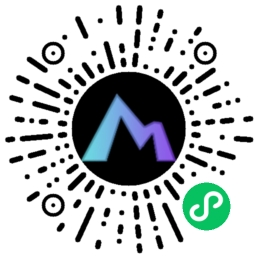
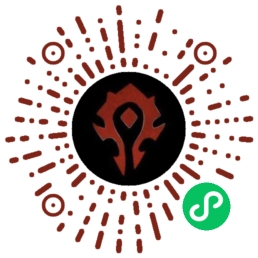
1:更换二维码 2:注释公会网址部分

Changed region(s): [[0.0, 0.0, 0.9922, 0.9922], [0.2481, 0.2481, 0.2791, 0.2791]]

diff --git a/client/mirai-mp-main/pages/my/create-guild.js b/client/mirai-mp-main/pages/my/create-guild.js
@@ -37,14 +37,14 @@ Component({
                 return;
             }
 
-            if (!this.data.domain || !/^[0-9a-zA-Z-_]{4,16}$/.test(this.data.domain)) {
-                wx.showModal({
-                    title: "错误",
-                    content: "网址不合法，请输入4-16个英文字母或数字",
-                    showCancel: false
-                });
-                return;
-            }
+            // if (!this.data.domain || !/^[0-9a-zA-Z-_]{4,16}$/.test(this.data.domain)) {
+            //     wx.showModal({
+            //         title: "错误",
+            //         content: "网址不合法，请输入4-16个英文字母或数字",
+            //         showCancel: false
+            //     });
+            //     return;
+            // }
             
             if (!this.data.realm) {
                 wx.showModal({

diff --git a/client/mirai-mp-main/pages/guild/my.js b/client/mirai-mp-main/pages/guild/my.js
@@ -91,7 +91,7 @@ Component({
                 guildPermission: !wx.$guild ? {} : wx.$guild.data.permission,
                 nickname: getApp().globalData.session.displayName,
                 userId: getApp().globalData.session.username,
-                website: 'https://' + this.properties.guild.id + '.mwow.org'
+                website: 'https://' + this.properties.guild.id + '.173qu.com'
             });
         }
     }
